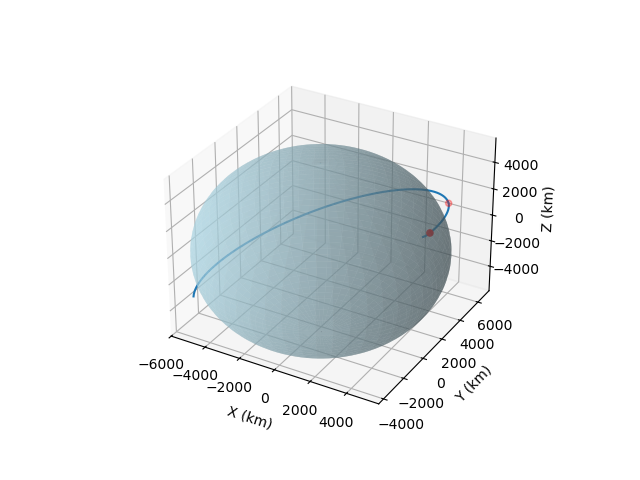
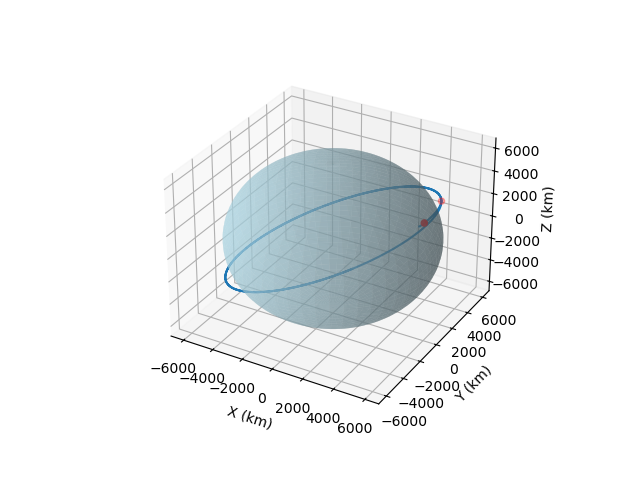
23rd July 2025

diff --git a/trajectory.py b/trajectory.py
@@ -160,11 +160,20 @@ class traj:
             self.burnout_times+=[self.time[-1]]
             propellant_used=self.stage_masses[current_stage]*(1-np.exp(orbital_velocity_difference/self.data["isp"][current_stage]/g))
             if display_breakdown:
-                print(f"Final orbit {(np.linalg.norm(self.position[-1])-R_earth)/1000}")
-                print(f"Final velocity magnitude {np.linalg.norm(self.velocity[-1])}")
-                print(f"Required velocity magnitude {(g*R_earth**2/np.linalg.norm(self.position[-1]))**0.5}")
-                print(f"Angle difference {90-np.arccos(np.dot(self.position[-1],self.velocity[-1])/np.linalg.norm(self.position[-1])/np.linalg.norm(self.velocity[-1]))/np.pi*180}")
+                print(f"Final orbit {(np.linalg.norm(self.position[-1])-R_earth)/1000} km")
+                print(f"Final velocity magnitude {np.linalg.norm(self.velocity[-1])} m/s")
+                print(f"Required velocity magnitude {(g*R_earth**2/np.linalg.norm(self.position[-1]))**0.5} m/s")
+                print(f"Angle difference {90-np.arccos(np.dot(self.position[-1],self.velocity[-1])/np.linalg.norm(self.position[-1])/np.linalg.norm(self.velocity[-1]))/np.pi*180} deg")
                 print(f"Ascent propellant left {self.stage_propellant_masses[current_stage]-propellant_used} kg")
+                print(f"Final insertion engine fire duration {np.abs(orbital_velocity_difference)/G_force_limit/g} s")
+                print(f"Total delta v {self.total_delta_v} m/s")
+
+                out_str+="********************************************************************************************************************************"
+                out_str+=f"Final orbit {(np.linalg.norm(self.position[-1])-R_earth)/1000} km\n"
+                out_str+=f"Final velocity magnitude {np.linalg.norm(self.velocity[-1])} m/s\n"
+                out_str+=f"Required velocity magnitude {(g*R_earth**2/np.linalg.norm(self.position[-1]))**0.5} m/s\n"
+                #out_str+=f"Angle difference {90-np.arccos(np.dot(self.position[-1],self.velocity[-1])/np.linalg.norm(self.position[-1])/np.linalg.norm(self.velocity[-1]))/np.pi*180} deg\n"
+                out_str+=f"Ascent propellant left {self.stage_propellant_masses[current_stage]-propellant_used} kg\n"
 
 
         self.burnouts=np.array(self.burnouts)

diff --git a/evaluate.py b/evaluate.py
@@ -117,15 +117,18 @@ class evaluate:
         out_str+="********************************************************************************************************************************\n"
 
         traj=rocket.create_trajectory_object()
-        traj.simulate_trajectory(n=20,n_epochs=5,dynamic_n=True)
+        traj.mins=(20.899700750657896, 60.003144304746236, 0.15195089285164473, 290.1446751769736)
+        #traj.simulate_trajectory(n=8,n_epochs=5,dynamic_n=True)
                                  #,start_time=20,delta_start_time=15
                                  #,end_time=75,delta_end_time=7550
                                  #,beta=0.1,delta_beta=0.09,
                                  #thrust_cutoff=5*60,delta_thrust_cutoff=3*60)
         print("Simulating final trajectory\n")
-        out_str+=traj.model(vector_start_time=traj.mins[0],vector_end_time=traj.mins[1],beta_max=traj.mins[2],thrust_cutoff_time=traj.mins[3],post_burnout=True,total_time=total_time,display_breakdown=True)
+        out_str+=traj.model(vector_start_time=traj.mins[0],vector_end_time=traj.mins[1],beta_max=traj.mins[2],thrust_cutoff_time=traj.mins[3],post_burnout=False,total_time=3*60*60,display_breakdown=True)
         traj.plot_altitudes()
+        traj.model(vector_start_time=traj.mins[0],vector_end_time=traj.mins[1],beta_max=traj.mins[2],thrust_cutoff_time=traj.mins[3],post_burnout=True,total_time=3*60*60,display_breakdown=False)
         traj.plotter()
+
         #traj.dyn_plotter(animation_speed=5000)
                 
         

diff --git a/stage_optimizer.py b/stage_optimizer.py
@@ -201,7 +201,7 @@ class stage_optimizer():
         #print("\n===================================================================================")
         if self.boostback[0] or self.boostback[1]:
             del_v_b=0
-            out_str+=f"Delta-v Achieved (excluding boostback): {round(self.delta_v_achieved, 2)} m/s\n"
+            out_str+=f"Delta-v Available (excluding boostback): {round(self.delta_v_achieved, 2)} m/s\n"
             for i in range(0,self.number_of_stages):
                 if self.boostback[i]:
                     out_str+=f"Boostback Delta-v Achieved for stage {i+1}: {round(-self.Isps[i]*g*np.log(self.epsilon_boostback[i]), 2)} m/s\n"

diff --git a/delta_v.py b/delta_v.py
@@ -24,7 +24,7 @@ class delta_v:
         #self.calculate_total_delta_v()
         self.path=path_planning.path_planning(thrust_by_weight_initial,target_orbit*1e3,Isp)
         print(f"Calculating delta v requirements")
-        self.path.path_planner(n=20,n_epochs=8,dynamic_n=True)
+        self.path.path_planner(n=10,n_epochs=8,dynamic_n=True)
         self.optimal_orbital_parameters=self.path.mins
         self.gravitational_delta_v=np.abs(self.path.gravity_delta_v)
         self.drag_delta_v=self.path.drag_delta_v
